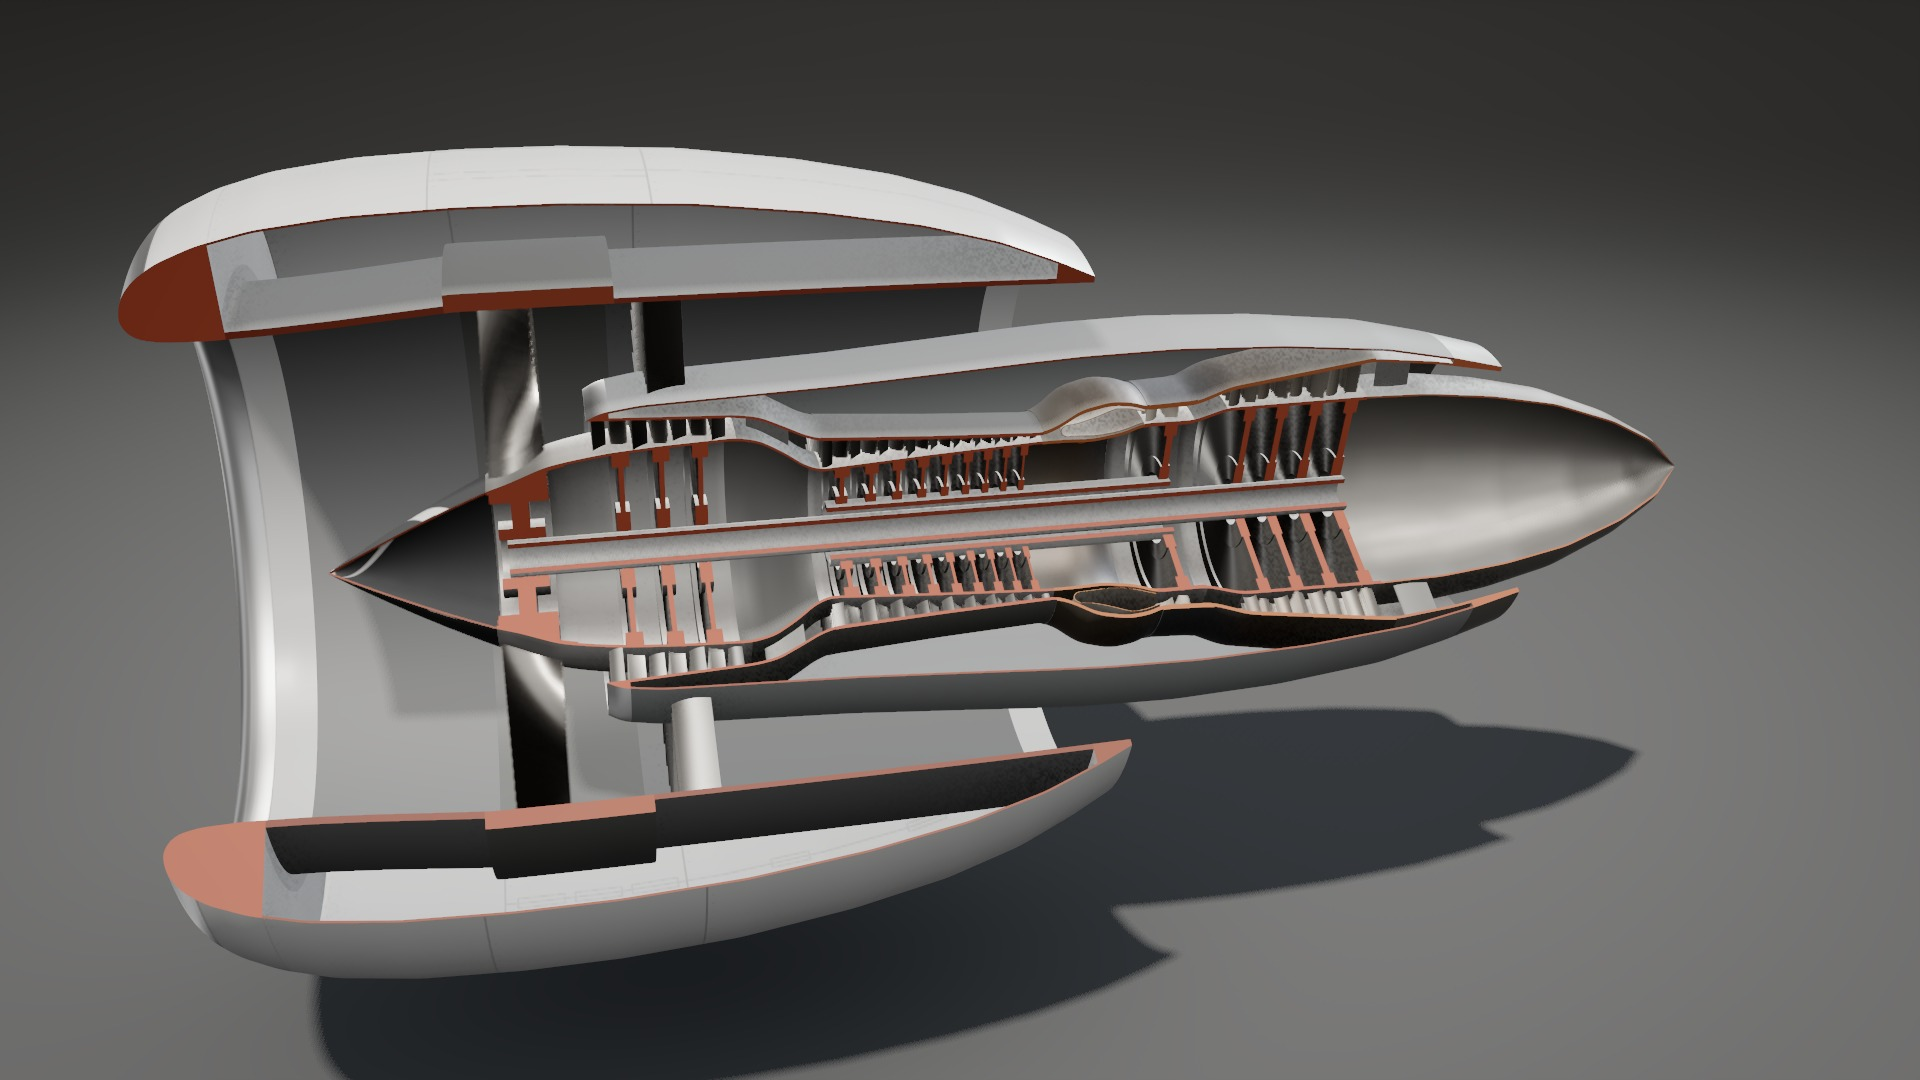
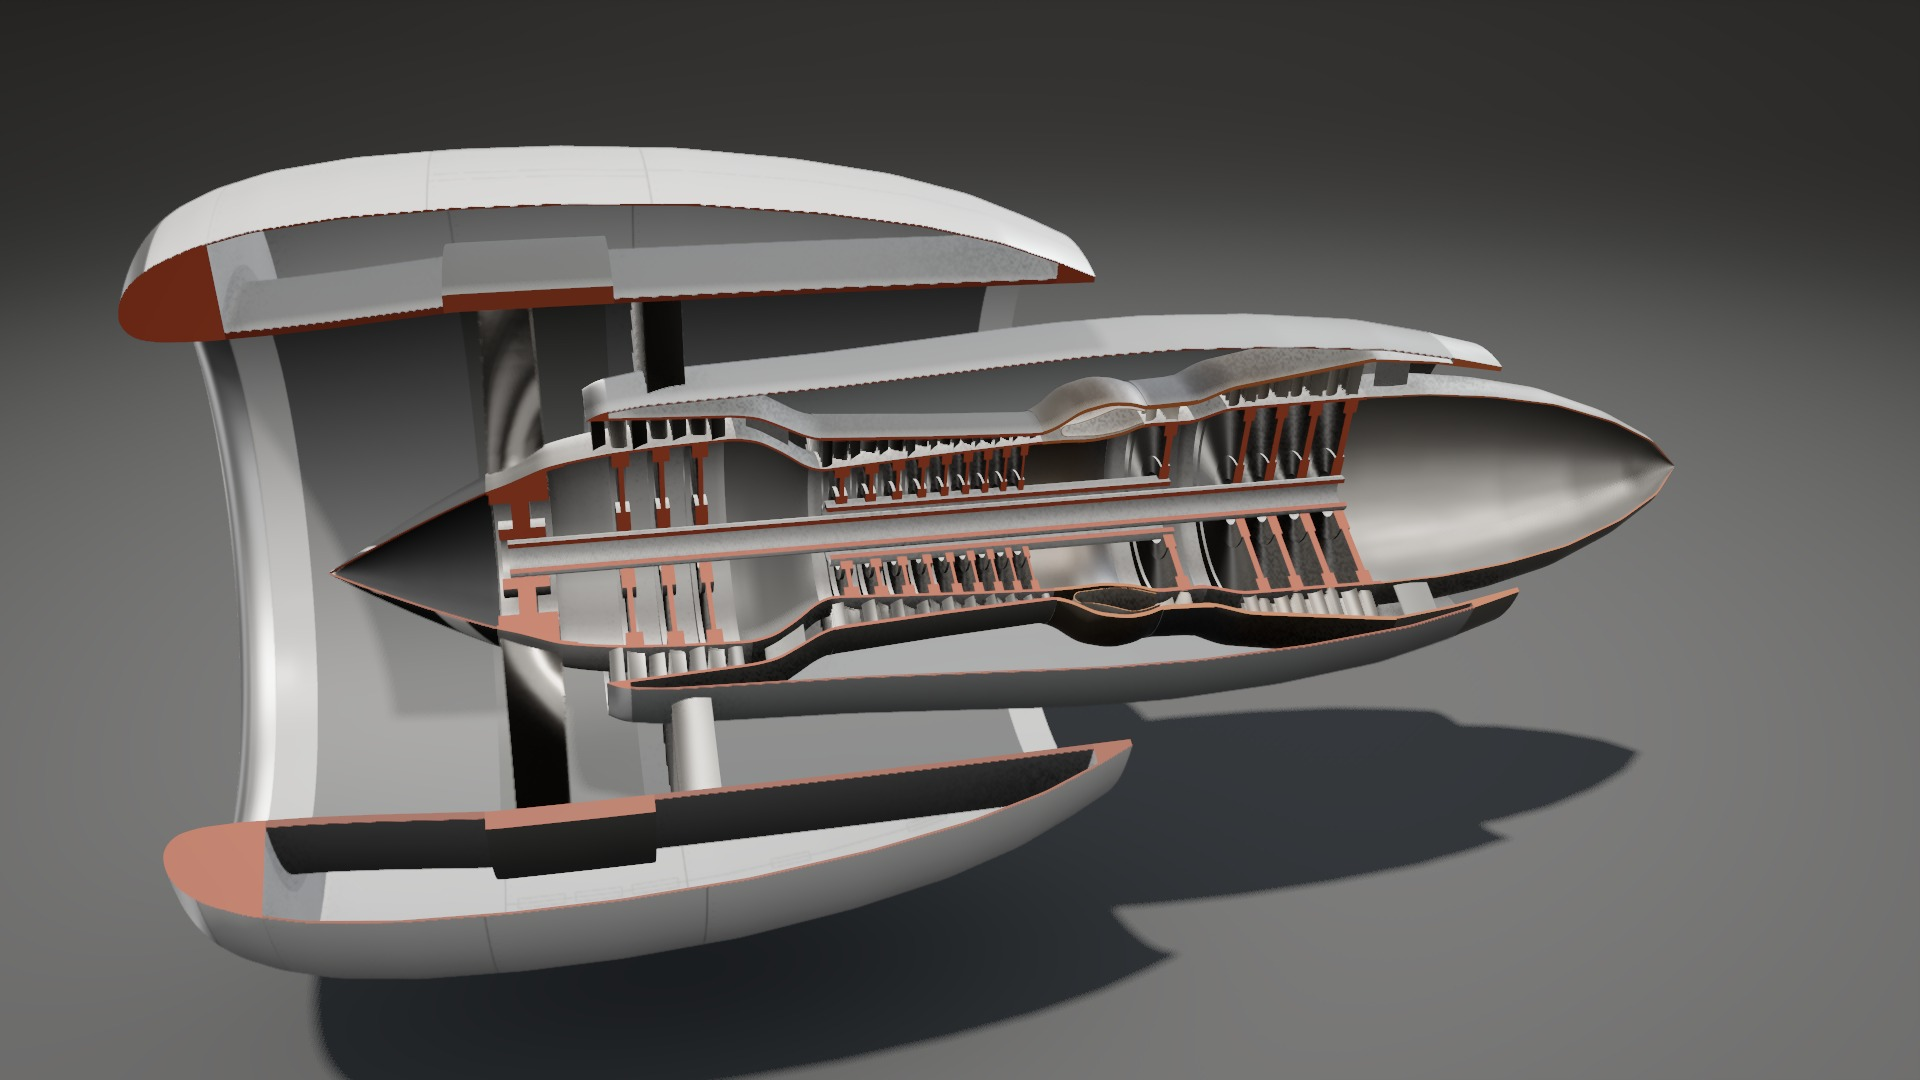
W1-lookdev-3: fan indirect occlusion 0.52 and spinner 0.52 (the picture checks' centre contrast), shots 00-07 regenerated with them; the high-preset watertight test gets a 30 s timeout (its geometry build passes 5 s under coverage on a loaded machine); fan-blur numbers in LOOKDEV

diff --git a/src/render/materials.ts b/src/render/materials.ts
@@ -433,7 +433,7 @@ function partMaterial(kind: PartMaterial, u: LookUniforms): NodeMaterial {
     }
     case 'spinner': {
       // matte enough that it no longer mirrors the softboxes as dark chrome (W1L-N1)
-      m = phys({ color: c3(0.045, 0.046, 0.048), metalness: 0, roughness: 0.58 });
+      m = phys({ color: c3(0.04, 0.041, 0.043), metalness: 0, roughness: 0.52 });
       m.colorNode = spinnerSpiral();
       // the spinner turns with the fan and is drawn (and blurred) in the rotor pass
       m.mrtNode = mrt({ blur: vec4(u.lpBlur, TWO_PI, 0, 1) });
@@ -698,9 +698,9 @@ export function createMaterials(u: LookUniforms): MaterialSet {
         const m = rowSurface(kind, u);
         m.positionNode = bladeHideOf(u);
         // inside the nacelle (fan) or the core (every other row): see CAVITY
-        // the fan sees the studio only through the intake mouth: 0.45 (pass 4 had 0.62, and
+        // the fan sees the studio only through the intake mouth: 0.52 (pass 4 had 0.62, and
         // its blades read as white streaks once the key no longer lit them, W1L-I2)
-        m.aoNode = float(kind === 'fanBlade' ? 0.45 : 0.5);
+        m.aoNode = float(kind === 'fanBlade' ? 0.52 : 0.5);
         if (spool !== null) {
           // the rotor pass records the angle this spool turns while the shutter is open and
           // the row's blade pitch (the image is periodic in it: see src/render/post.ts)

diff --git a/tests/unit/geometry/lookdev.test.ts b/tests/unit/geometry/lookdev.test.ts
@@ -51,12 +51,18 @@ const rowTriangles = (g: EngineGeometry['rows'][number]) =>
   (g.blade.mesh.indices.length / 3) * g.row.count;
 
 describe.each(PRESETS)('quality preset %s (W1G-I1)', (id) => {
-  it('every part, row and strut is watertight, manifold, outward and free of slivers', () => {
-    const geo = geoOf(id);
-    for (const p of geo.parts) expectClosed(`${id} part ${p.spec.id}`, p.mesh);
-    for (const r of [...geo.rows, ...geo.struts])
-      expectClosed(`${id} row ${r.row.id}`, r.blade.mesh);
-  });
+  // the first test per preset builds its geometry (cached for the rest): `high` takes ~5 s
+  // under coverage instrumentation on a loaded machine, past vitest's 5 s default
+  it(
+    'every part, row and strut is watertight, manifold, outward and free of slivers',
+    { timeout: 30_000 },
+    () => {
+      const geo = geoOf(id);
+      for (const p of geo.parts) expectClosed(`${id} part ${p.spec.id}`, p.mesh);
+      for (const r of [...geo.rows, ...geo.struts])
+        expectClosed(`${id} row ${r.row.id}`, r.blade.mesh);
+    },
+  );
 
   it('every part loop is a simple counter-clockwise polygon', () => {
     for (const p of geoOf(id).parts) {

diff --git a/docs/LOOKDEV.md b/docs/LOOKDEV.md
@@ -28,6 +28,7 @@ All eight shots (00-07) were regenerated at the end of the round; the round-2 se
 - **The composite's fan average runs only inside the fan's screen rectangle** (`src/geometry/screenRect.ts`, set every frame from the fan's box): 45 texture reads per pixel were most of its cost.
 - **View-dependent closed culling** (`src/geometry/visibility.ts`): inside the core cowl, the booster, transition duct and HPC are drawn only for an eye ahead of the splitter, the LPT, exhaust and TRF only for an eye aft of the first LPT row (the default view no longer draws the LPT; the side view draws neither). The opaque pass turned out to be geometry-bound: it barely changed with the render scale (W1L-N6, GPU_FACTS M42 revised).
 - **D3-7 performance profile** (`src/gpu/renderScale.ts`, `?profile=performance`, key `q`): the scene, rotor and composite passes and TRAA at a render scale in [0.75, 0.85] that follows the GPU time (down a step over 8 ms, up a step only when the bigger scale is predicted under 7.2 ms, 120 frames between changes); the output pass upsamples TRAA's result. three r186's TRAA skipped its history depth copy below scale 1 (it then stopped accumulating) and errored on the frame the scale changed; `post.ts` fixes both (GPU_FACTS M44).
+- **The fan-blur reference test** (`tests/browser/fanBlur.test.ts`, bounds unchanged; it now writes its numbers to `test-results/fanBlur.txt`): fanIdle estimator MAE 0.0014 / worst tile 0.016, shipped 0.0055 / 0.051; hero 0.0009 / 0.010, shipped 0.0039 / 0.036; fanTakeoff 0.0019 / 0.022, shipped 0.0042 / 0.047 (round 2: estimator 0.0024-0.0033 / 0.072-0.083, shipped 0.0055-0.0067 / 0.081-0.092). The coarser loft and the shading change did not cost accuracy.
 - **Not done as asked: the fan blur is not accumulated across frames through TRAA.** At idle the fan turns about 110 degrees (7 blade pitches) between frames, so TRAA's history at a fan pixel is the fan at another phase: with zero velocity it smears the blades into a disc, and a rotational velocity cannot be defined for a semi-transparent smear whose depth changes through the exposure (the gaps show the booster and static vanes behind). Accumulation does work when the fan holds still between frames (the tests render at dt 0, and the 8 copies' R2 jitter resolves through TRAA there). So the cost was cut by shading each pixel once instead of cutting the samples per frame; the per-frame estimate (and its look in motion) is the round-2 one.
 
 Indicative per-pass GPU ms (1080p, `high`, `node tools/lookdev/capture.ts --only none --warmup-s 3 --run-s 5 --reps 2 --seed 1`, 2026-10-26: AC power, Balanced, other agents and a Stryker run on the machine, so NOT D0-1; the medians of 2 runs):
@@ -53,7 +54,7 @@ node tools/lookdev/capture.ts --only none --warmup-s 10 --run-s 60 --reps 3 --se
 - **Seams:** 3 mm gaps drawn as shallow grooves (a bevel up close, a dark line far away that keeps a minimum contrast instead of vanishing), the hinge lines either side of the top, the latch line at the bottom with three flush latches on the fan cowl and two on the reverser, an oil-service access door and a pressure-relief door on the camera side, and fastener rows aft of the circumferential joints.
 - **Surface:** a two-scale orange peel, a faint skin waviness ("oil canning") that makes the long strip highlights wobble slightly, wipe streaks and lower-skin handling marks in the roughness.
 - **Lip:** the bare satin-aluminium band is now the leading edge only (it ends 8 cm aft of the highlight outside, 11 cm inside, at a seam), so it no longer reads as a fat chrome torus; it is rougher (0.34) with a fine circumferential buffing grain and a lighter anisotropy.
-- **Elsewhere (cheap nits):** spinner matte (0.58, so it no longer mirrors the softboxes), fan blades darker in the intake (indirect occlusion 0.45) with shorter anisotropic streaks, the acoustic liner and fan case lighter (they read as holes in the cutaway's shadow, W1L-N2), and a little more chroma in the heat tint.
+- **Elsewhere (cheap nits):** spinner matte (roughness 0.52, so it no longer mirrors the softboxes), fan blades darker in the intake (indirect occlusion 0.52, was 0.62) with shorter anisotropic streaks, the acoustic liner and fan case lighter (they read as holes in the cutaway's shadow, W1L-N2), and a little more chroma in the heat tint.
 
 ### Plug (D3-9)
 
